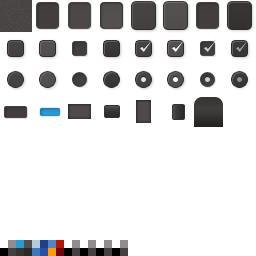
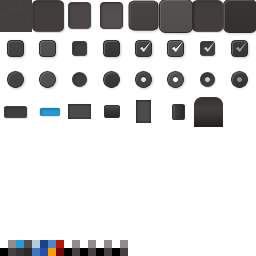
9slice_initial

Changed region(s): [[0.5, 0.0, 1.0, 0.1562], [0.125, 0.0, 0.2812, 0.1562]]

diff --git a/src/opengl/sliced_gui_quad.h b/src/opengl/sliced_gui_quad.h
@@ -2,7 +2,7 @@
 
 #include "resources/mesh.h"
 #include "opengl/shader.h"
-
+#include "math/rect2d.h"
 class sliced_gui_quad
 {
 private:
@@ -31,32 +31,9 @@ private:
         pos[15]=glm::vec3(m_size,m_size,0);
     }
 
-    void create_tcoords()
-    {
-        tex_coords[0] = glm::vec2(0,0);
-        tex_coords[1] = glm::vec2(0+m_margin,0);
-        tex_coords[4] = glm::vec2(0,0+m_margin);
-        tex_coords[5] = glm::vec2(0+m_margin,0+m_margin);
-
-        tex_coords[2] = glm::vec2(1-m_margin,0);
-        tex_coords[3] = glm::vec2(1,0);
-        tex_coords[6] = glm::vec2(1-m_margin,0+m_margin);
-        tex_coords[7] = glm::vec2(1,0+m_margin);
-
-        tex_coords[8] = glm::vec2(0,1-m_margin);
-        tex_coords[9] = glm::vec2(0+m_margin,1-m_margin);
-        tex_coords[12] = glm::vec2(0,1);
-        tex_coords[13] = glm::vec2(0+m_margin,1);
-
-        tex_coords[10] = glm::vec2(1-m_margin,1-m_margin);
-        tex_coords[11] = glm::vec2(1,1-m_margin);
-        tex_coords[14] = glm::vec2(1-m_margin,1);
-        tex_coords[15] = glm::vec2(1,1);
-    }
-
     void create_inds()
     {
-        indices=new uint32_t[54]{0,1,5,5,4,0,2,3,7,7,6,2,8,9,13,13,12,8,10,11,15,15,14,10,1,2,6,6,5,1,4,5,9,9,8,4,6,7,11,11,10,6,9,10,14,14,13,9,5,6,10,10,9,5};
+        indices=new uint32_t[54]{0,1,5,5,4,0,1,2,6,6,5,1,2,3,7,7,6,2,4,5,9,9,8,4,5,6,10,10,9,5,6,7,11,11,10,6,8,9,13,13,12,8,9,10,14,14,13,9,10,11,15,15,14,10};
     }
 public:
     glm::vec3 pos[16];
@@ -70,15 +47,46 @@ public:
     sliced_gui_quad(float size=1.0f, float margin=0.1f)
     {
         this->m_size=size;
+        this->m_margin=margin;
     }
 
+    void create_tcoords(glm::vec2* uvs)
+    {
+        float tm = 0.00125;
+
+        glm::vec2 a=uvs[0];
+        glm::vec2 b=uvs[1];
+        glm::vec2 c=uvs[2];
+        glm::vec2 d=uvs[3];
+
+        tex_coords[0] = glm::vec2(a.x,a.y);
+        tex_coords[1] = glm::vec2(a.x+tm,a.y);
+        tex_coords[4] = glm::vec2(a.x,a.y-tm);
+        tex_coords[5] = glm::vec2(a.x+tm,a.y-tm);
+
+        tex_coords[2] = glm::vec2(b.x-tm,b.y);
+        tex_coords[3] = glm::vec2(b.x,b.y);
+        tex_coords[6] = glm::vec2(b.x-tm,b.y-tm);
+        tex_coords[7] = glm::vec2(b.x,b.y-tm);
+
+        tex_coords[8] = glm::vec2(c.x,c.y+tm);
+        tex_coords[9] = glm::vec2(c.x+tm,c.y+tm);
+        tex_coords[12] = glm::vec2(c.x,c.y);
+        tex_coords[13] = glm::vec2(c.x+tm,c.y);
+
+        tex_coords[10] = glm::vec2(d.x-tm,d.y+tm);
+        tex_coords[11] = glm::vec2(d.x,d.y+tm);
+        tex_coords[14] = glm::vec2(d.x-tm,d.y);
+        tex_coords[15] = glm::vec2(d.x,d.y);
+    }
 
     virtual ~sliced_gui_quad(){};
 
     virtual bool generate()
     {
         create_verts();
-        create_tcoords();
+        glm::vec2*defuv=new glm::vec2[4]{glm::vec2(0,1),glm::vec2(1,1),glm::vec2(0,0),glm::vec2(1,0)};
+        create_tcoords(defuv);
         create_inds();
 
         glmesh.buffers.resize(3);
@@ -110,8 +118,20 @@ public:
 
     void draw()
     {
+        //glPolygonMode(GL_FRONT_AND_BACK,GL_LINE);
+        //glBindTexture(GL_TEXTURE_2D,0);
         glBindVertexArray(glmesh.vao);
         glDrawElements(GL_TRIANGLES,54,GL_UNSIGNED_INT,0);
         glBindVertexArray(0);
+        //glPolygonMode(GL_FRONT_AND_BACK,GL_FILL);
+    }
+
+    void set_tcoords(glm::vec2 *tcoords)
+    {
+        create_tcoords(tcoords);
+
+        glBindBuffer(GL_ARRAY_BUFFER, glmesh.buffers[1]);
+        glBufferData(GL_ARRAY_BUFFER, 16*sizeof(tex_coords[0]), &tex_coords[0], GL_STATIC_DRAW);
+        glBindBuffer(GL_ARRAY_BUFFER, 0);
     }
 };

diff --git a/src/gui/gui_environment.cpp b/src/gui/gui_environment.cpp
@@ -3,6 +3,7 @@
 #include "gui_environment.h"
 #include "opengl/shader.h"
 #include "opengl/quad.h"
+#include "opengl/sliced_gui_quad.h"
 #include "gui_skin.h"
 #include "resources/image.h"
 #include "resources/image_loader.h"
@@ -21,6 +22,9 @@ gui_environment::gui_environment(int dispw, int disph, GLFWwindow* win):gui_elem
     gui_quad=new quad();
     gui_quad->generate();
 
+    sliced_quad=new sliced_gui_quad();
+    sliced_quad->generate();
+
     skin=new gui_skin();
 
     skin->load("../../res/skin_default.xml");
@@ -29,6 +33,7 @@ gui_environment::gui_environment(int dispw, int disph, GLFWwindow* win):gui_elem
     image_loader* imgl=new image_loader(nullptr);
     std::shared_ptr<image> img=std::shared_ptr<image>(imgl->load("res/skin_default.png"));
     skin_atlas->init(img);
+    //skin_atlas->set_filters(texture::FILTER_MIN::FILTER_MIN_NEAREST,texture::FILTER_MAG::FILTER_MAG_NEAREST_MIPMAP);
 
     m_font_renderer=new font_renderer(this);
 }
@@ -170,7 +175,7 @@ font_renderer* gui_environment::get_font_renderer()
     return m_font_renderer;
 }
 
-void gui_environment::draw_gui_quad(rect2d<int> dims,uint32_t style)
+void gui_environment::draw_gui_quad(rect2d<int> dims,uint32_t style,bool tile)
 {
     rect2d<float> scaled_dims=scale_gui_rect(dims.as<float>());
 
@@ -194,3 +199,27 @@ void gui_environment::draw_gui_quad(rect2d<int> dims,uint32_t style)
     glBindTexture(GL_TEXTURE_2D,0);
 }
 
+
+void gui_environment::draw_sliced_gui_quad(rect2d<int> dims,uint32_t style,bool tile)
+{
+    rect2d<float> scaled_dims=scale_gui_rect(dims.as<float>());
+
+    glEnable(GL_BLEND);
+
+    gui_shader->set();
+    skin_atlas->set(0);
+
+    sliced_quad->set_tcoords(skin->get_uv(style));
+
+    glm::mat4 M=glm::mat4(1.0f);
+
+    M=glm::translate(M,glm::vec3(scaled_dims.x,scaled_dims.y,0));
+    M=glm::scale(M,glm::vec3(scaled_dims.w,scaled_dims.h,0));
+
+    glUniformMatrix4fv(gui_shader->getparam("M"),1,GL_FALSE,glm::value_ptr(M));
+
+    sliced_quad->draw();
+
+    glDisable(GL_BLEND);
+    glBindTexture(GL_TEXTURE_2D,0);
+}

diff --git a/src/gui/gui_skin.h b/src/gui/gui_skin.h
@@ -135,9 +135,10 @@ struct gui_skin
             printf("%s",rects[i].to_string().c_str());
         }
     }
+    glm::vec2 uvs[gui_skin_style_count*4];
 private:
     rect2d<int> rects[gui_skin_style_count];
-    glm::vec2 uvs[gui_skin_style_count*4];
+
 
     std::string name,atlas;
     uint32_t atlas_size;
@@ -149,10 +150,10 @@ private:
         {
             rect2d<float> ir=rects[i].as<float>();
 
-            uvs[j+3]=glm::vec2(ir.x/256.f,ir.y/256.f);
-            uvs[j+2]=glm::vec2(ir.x2/256.f,ir.y/256.f);
-            uvs[j+1]=glm::vec2(ir.x2/256.f,ir.y2/256.f);
             uvs[j]=glm::vec2(ir.x/256.f,ir.y2/256.f);
+            uvs[j+1]=glm::vec2(ir.x2/256.f,ir.y2/256.f);
+            uvs[j+2]=glm::vec2(ir.x/256.f,ir.y/256.f);
+            uvs[j+3]=glm::vec2(ir.x2/256.f,ir.y/256.f);
 
             j+=4;
         }

diff --git a/src/gui/gui_environment.h b/src/gui/gui_environment.h
@@ -24,6 +24,7 @@
 
 class shader;
 class quad;
+class sliced_gui_quad;
 class texture;
 class gui_environment : public gui_element
 {
@@ -41,7 +42,8 @@ public:
     {
         return this->gui_shader;
     }
-    void draw_gui_quad(rect2d<int> size, uint32_t style=gui_style::gui_skin_background);
+    void draw_gui_quad(rect2d<int> size, uint32_t style=gui_style::gui_skin_background, bool tile=false);
+    void draw_sliced_gui_quad(rect2d<int> size, uint32_t style=gui_style::gui_skin_background, bool tile=false);
 
     void set_skin(gui_skin* skin);
 
@@ -69,6 +71,7 @@ private:
     texture* skin_atlas;
     shader* gui_shader;
     quad* gui_quad;
+    sliced_gui_quad* sliced_quad;
     font_renderer* m_font_renderer;
     input_handler *input;
     GLFWwindow* window;

diff --git a/src/tests/tinyxml_test_application.cpp b/src/tests/tinyxml_test_application.cpp
@@ -12,6 +12,7 @@
 #include "gui/gui_environment.h"
 #include "gui/gui_button.h"
 #include "gui/gui_checkbox.h"
+#include "gui/gui_pane.h"
 
 tinyxml_test_application::tinyxml_test_application(uint32_t argc, const char ** argv): application(argc,argv)
 {
@@ -38,7 +39,9 @@ bool tinyxml_test_application::init(const std::string & title, uint32_t width, u
 
     env=new gui_environment(1024,768,this->wnd->getWindow());
 
-    gui_button* btn=new gui_button(env,rect2d<int>(0,0,32,32),"");
+    gui_pane* pane=new gui_pane(env,rect2d<int>(0,0,400,400));
+
+    gui_button* btn=new gui_button(env,rect2d<int>(0,0,128,32),"");
 
     gui_checkbox* cb=new gui_checkbox(env,rect2d<int>(0,64,20,20),false);
     cb=new gui_checkbox(env,rect2d<int>(0,96,20,20),true);

diff --git a/src/gui/gui_button.cpp b/src/gui/gui_button.cpp
@@ -34,7 +34,7 @@ void gui_button::render()
     if(!enabled)
         cur_col=col_disabled;
 
-    environment->draw_gui_quad(absolute_rect,cur_style);
+    environment->draw_sliced_gui_quad(absolute_rect,cur_style);
 
     glm::vec2 dm=this->environment->get_font_renderer()->get_text_dimensions(this->m_text);
     this->environment->get_font_renderer()->render_string(this->m_text,glm::vec2(this->absolute_rect.x+absolute_rect.w/2-dm.x/2,this->absolute_rect.y+absolute_rect.h/2-dm.y/2),glm::vec4(1),true);

diff --git a/src/gui/gui_pane.cpp b/src/gui/gui_pane.cpp
@@ -27,7 +27,7 @@ void gui_pane::render()
 {
     if(this->m_draw)
     {
-        environment->draw_gui_quad(absolute_rect);
+        environment->draw_sliced_gui_quad(absolute_rect,gui_skin_input_active,true);
     }
 
     this->render_children();
